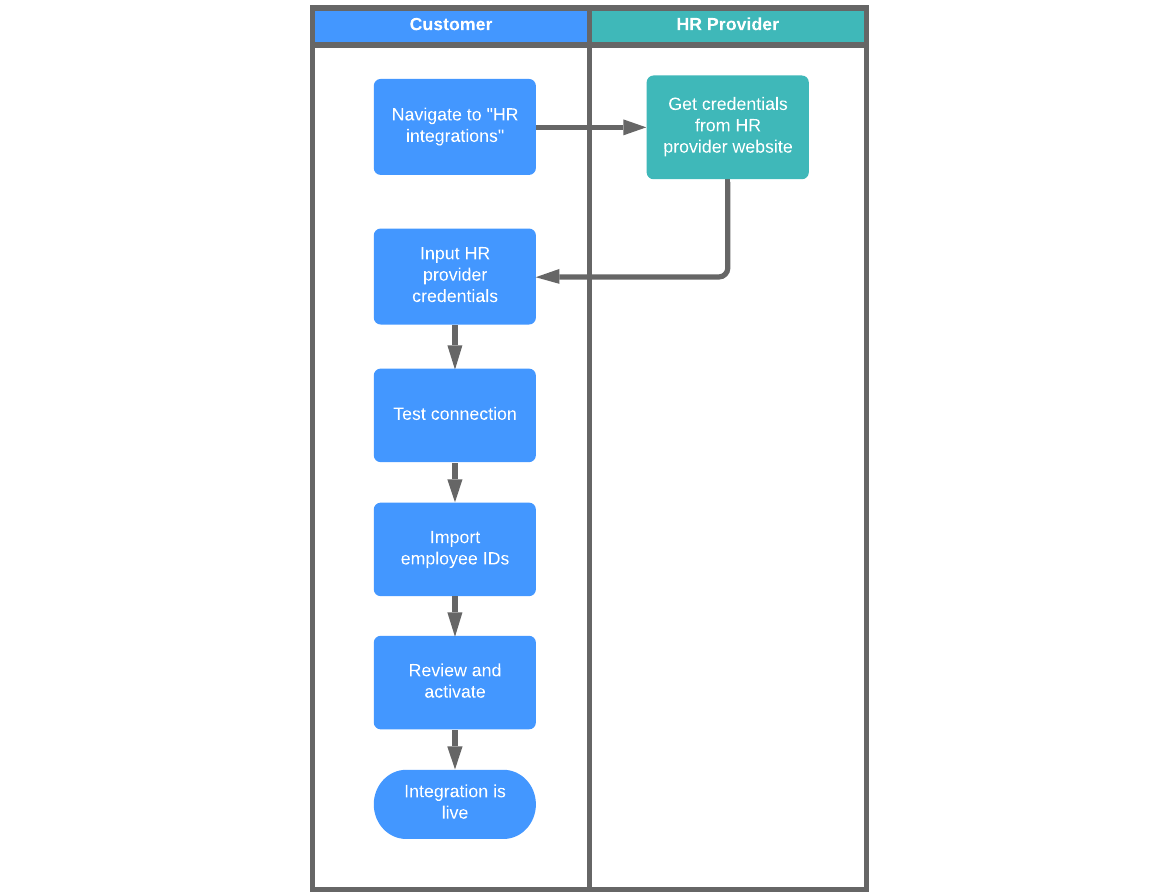
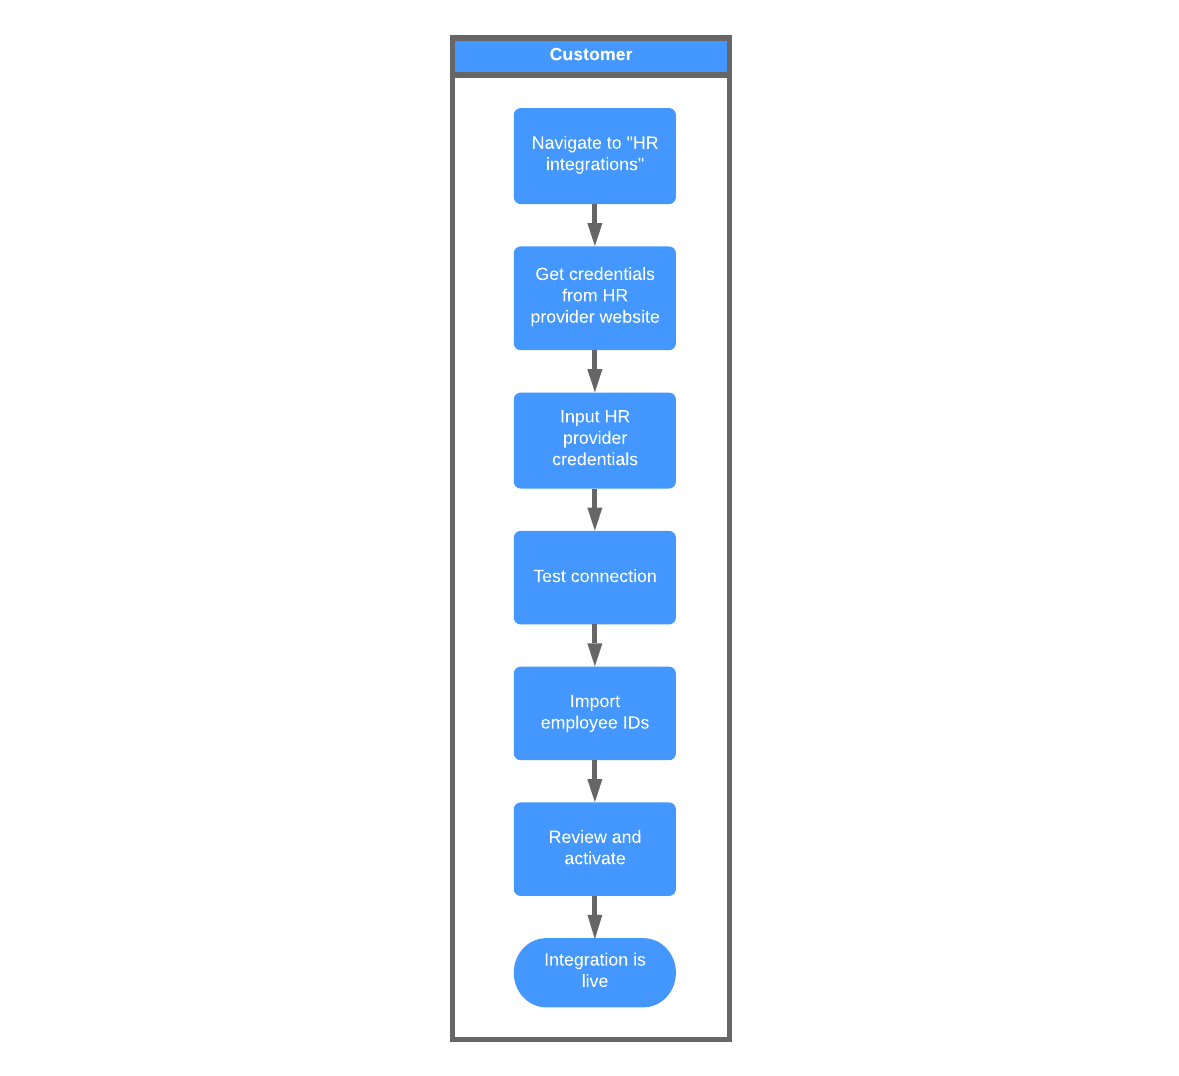
updates

Changed region(s): [[0.2449, 0.0, 0.7653, 1.0]]

diff --git a/hr-integrations.html b/hr-integrations.html
@@ -229,7 +229,10 @@
 					Integration setup workflow (after)
 				</p>
 				<p>
-					Partway through development, we changed our approach and decided to build support for HR providers that weren’t as commonly used by our customers, but that could support API integrations, which are easier to set up. This decision allowed us to meet our target launch date on time. It also resulted in some work that was thrown away, both in design and engineering. In the end, this path was less risky and resulted in a better user experience.
+					Partway through development, we changed our approach and decided to build support for HR providers that weren’t as commonly used by our customers, but that could support API integrations, which are easier to set up.
+				</p>
+				<p>
+					This decision allowed us to meet our target launch date on time. I adjusted the designs to fit this new, simplified workflow. This path was ultimately less risky and resulted in a better user experience, one where the customer can set up an integration independently and without communicating with various parties.
 				</p>
 			</div>
 		</div>
